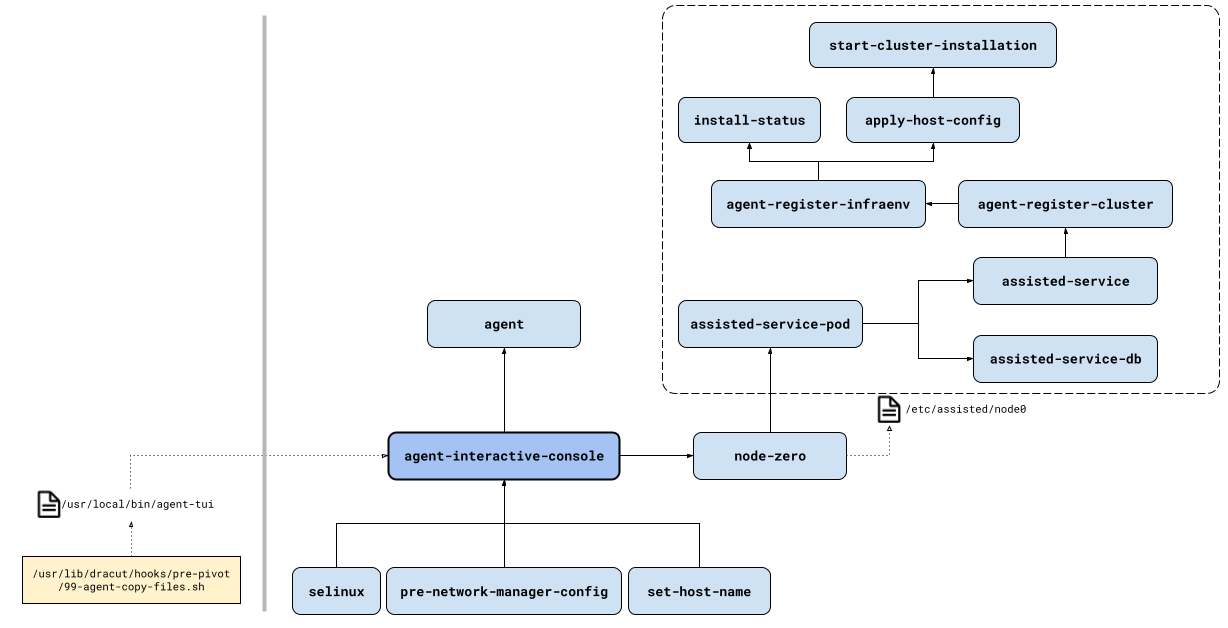
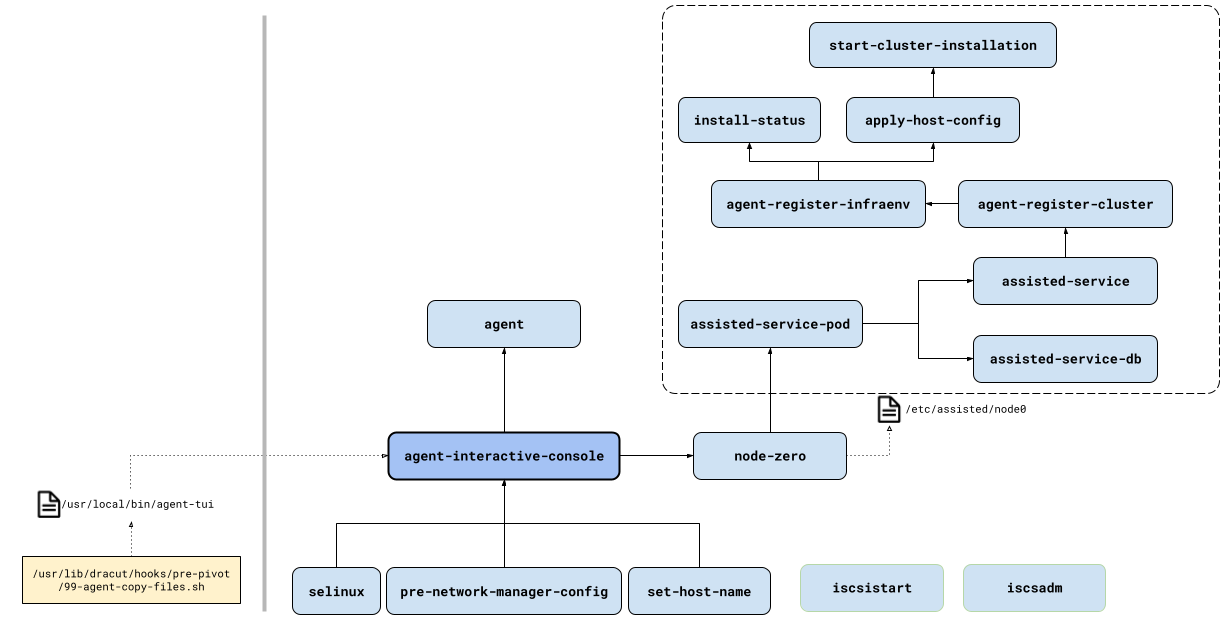
OCPBUGS-48256: Run iscsiadm for agent-based iSCSI installations
The agent-based installer currently runs iscsistart to ensure it
can boot off of an iSCSI target. However, in order to access the
final rhcos image written to the the target by coreos-installer,
iscsiadm must be run which will start iscsid. See
https://docs.redhat.com/en/documentation/red_hat_enterprise_linux/9/html/managing_storage_devices/configuring-an-iscsi-initiator_managing-storage-devices#configuring-an-iscsi-initiator_managing-storage-devices
for more info.

Changed region(s): [[0.6498, 0.8774, 0.9283, 0.9984]]

diff --git a/pkg/asset/agent/image/ignition.go b/pkg/asset/agent/image/ignition.go
@@ -382,6 +382,7 @@ func getDefaultEnabledServices() []string {
 		"oci-eval-user-data.service",
 		"iscsistart.service",
 		"set-hostname.service",
+		"iscsiadm.service",
 	}
 }
 

diff --git a/docs/user/agent/agent-services.md b/docs/user/agent/agent-services.md
@@ -22,6 +22,8 @@ step is required because the agent-tui and nmstate libraries are too big to fit 
 * install-status - determines the current install status and writes it out to /etc/issue.d/
 * apply-host-config - applies root device hints and roles specified in agent-config.yaml
 * start-cluster-installation - calls assisted-service REST-API to start cluster installation when all hosts are in ready state and have passed validations
+* iscsistart - calls the iscsistart utility which allows an iSCSI session to be started for booting off an iSCSI target
+* iscsiadm - calls the iscsiadm utility that will start iscsid to manage the iSCSI session needed to install the final rhcos image
 
 ## Add-nodes workflow
 
